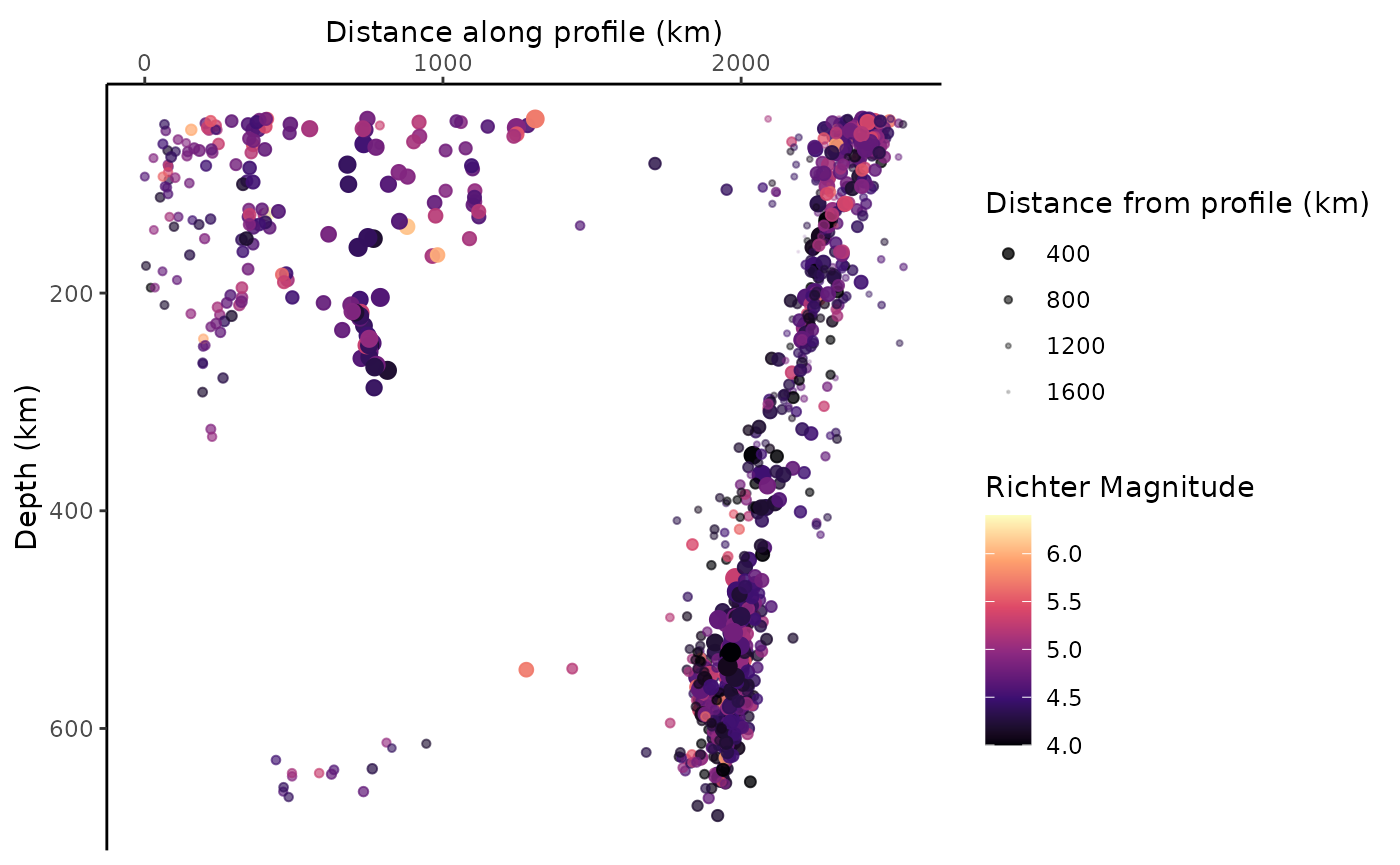
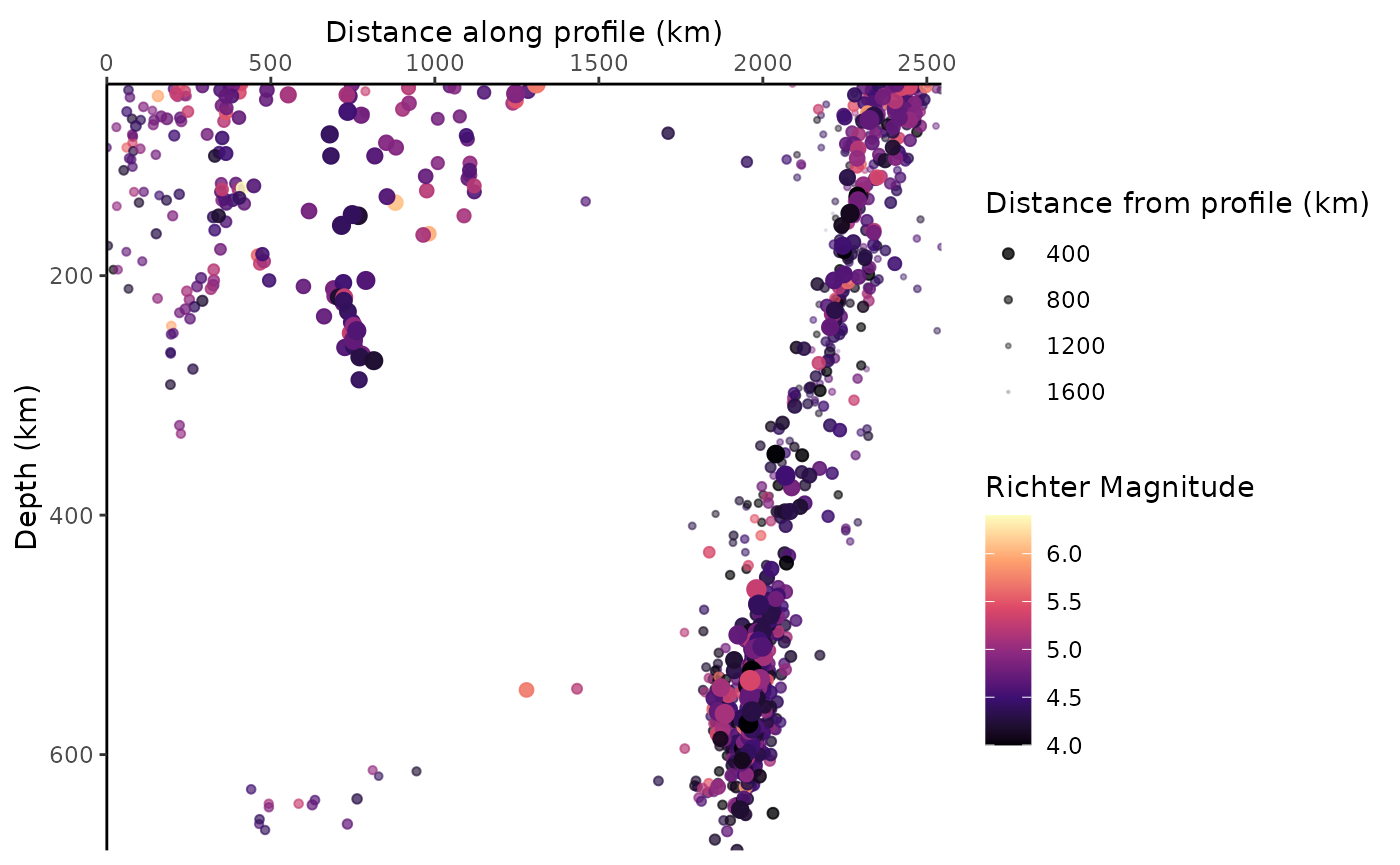
Deploying to gh-pages from @ tobiste/geoprofiler@4e86b4bd479b1341b2b4c8274972071e740ec782 🚀

diff --git a/articles/geoprofiler.html b/articles/geoprofiler.html
@@ -197,14 +197,17 @@ controlling the size (and/or the opacity) of the points. Here I am using
 the unfiltered data, and show the closest points much larger than the
 more distant points. This gives a somewhat 3-dimensional look to it:</p>
 <div class="sourceCode" id="cb11"><pre class="downlit sourceCode r">
-<code class="sourceCode R"><span><span class="fu"><a href="https://ggplot2.tidyverse.org/reference/ggplot.html" class="external-link">ggplot</a></span><span class="op">(</span><span class="va">quakes_profile</span>, <span class="fu"><a href="https://ggplot2.tidyverse.org/reference/aes.html" class="external-link">aes</a></span><span class="op">(</span><span class="va">X</span><span class="op">/</span><span class="fl">1000</span>, <span class="va">depth</span>, color <span class="op">=</span> <span class="va">mag</span>, size <span class="op">=</span> <span class="fu"><a href="https://rdrr.io/r/base/MathFun.html" class="external-link">abs</a></span><span class="op">(</span><span class="va">Y</span><span class="op">)</span><span class="op">/</span><span class="fl">1000</span>, alpha <span class="op">=</span> <span class="fu"><a href="https://rdrr.io/r/base/MathFun.html" class="external-link">abs</a></span><span class="op">(</span><span class="va">Y</span><span class="op">)</span><span class="op">/</span><span class="fl">1000</span><span class="op">)</span><span class="op">)</span> <span class="op">+</span></span>
-<span>  <span class="fu"><a href="https://ggplot2.tidyverse.org/reference/geom_point.html" class="external-link">geom_point</a></span><span class="op">(</span><span class="op">)</span> <span class="op">+</span></span>
-<span>  <span class="fu"><a href="https://ggplot2.tidyverse.org/reference/scale_viridis.html" class="external-link">scale_color_viridis_c</a></span><span class="op">(</span><span class="st">"Richter Magnitude"</span>, option <span class="op">=</span> <span class="st">"A"</span><span class="op">)</span> <span class="op">+</span></span>
-<span>  <span class="fu"><a href="https://ggplot2.tidyverse.org/reference/scale_size.html" class="external-link">scale_size_continuous</a></span><span class="op">(</span><span class="st">"Distance from profile (km)"</span>, range <span class="op">=</span> <span class="fu"><a href="https://rdrr.io/r/base/c.html" class="external-link">c</a></span><span class="op">(</span><span class="fl">3</span>, <span class="fl">.1</span><span class="op">)</span><span class="op">)</span> <span class="op">+</span></span>
-<span>  <span class="fu"><a href="https://ggplot2.tidyverse.org/reference/scale_alpha.html" class="external-link">scale_alpha_continuous</a></span><span class="op">(</span><span class="st">"Distance from profile (km)"</span>, range <span class="op">=</span> <span class="fu"><a href="https://rdrr.io/r/base/c.html" class="external-link">c</a></span><span class="op">(</span><span class="fl">1</span>, <span class="fl">.1</span><span class="op">)</span><span class="op">)</span> <span class="op">+</span></span>
-<span>  <span class="fu"><a href="https://ggplot2.tidyverse.org/reference/scale_continuous.html" class="external-link">scale_y_reverse</a></span><span class="op">(</span><span class="op">)</span> <span class="op">+</span></span>
-<span>  <span class="fu"><a href="https://ggplot2.tidyverse.org/reference/scale_continuous.html" class="external-link">scale_x_continuous</a></span><span class="op">(</span>guide <span class="op">=</span> <span class="fu"><a href="https://ggplot2.tidyverse.org/reference/guide_axis.html" class="external-link">guide_axis</a></span><span class="op">(</span>position <span class="op">=</span> <span class="st">"top"</span><span class="op">)</span><span class="op">)</span> <span class="op">+</span></span>
-<span>  <span class="fu"><a href="https://ggplot2.tidyverse.org/reference/labs.html" class="external-link">labs</a></span><span class="op">(</span>x <span class="op">=</span> <span class="st">"Distance along profile (km)"</span>, y <span class="op">=</span> <span class="st">"Depth (km)"</span><span class="op">)</span></span></code></pre></div>
+<code class="sourceCode R"><span> <span class="va">quakes_profile</span> <span class="op">|&gt;</span></span>
+<span>   <span class="fu"><a href="https://dplyr.tidyverse.org/reference/arrange.html" class="external-link">arrange</a></span><span class="op">(</span><span class="fu"><a href="https://dplyr.tidyverse.org/reference/desc.html" class="external-link">desc</a></span><span class="op">(</span><span class="fu"><a href="https://rdrr.io/r/base/MathFun.html" class="external-link">abs</a></span><span class="op">(</span><span class="va">Y</span><span class="op">)</span><span class="op">)</span><span class="op">)</span> <span class="op">|&gt;</span></span>
+<span>   <span class="fu"><a href="https://ggplot2.tidyverse.org/reference/ggplot.html" class="external-link">ggplot</a></span><span class="op">(</span><span class="fu"><a href="https://ggplot2.tidyverse.org/reference/aes.html" class="external-link">aes</a></span><span class="op">(</span><span class="va">X</span> <span class="op">/</span> <span class="fl">1000</span>, <span class="va">depth</span>, color <span class="op">=</span> <span class="va">mag</span>, size <span class="op">=</span> <span class="fu"><a href="https://rdrr.io/r/base/MathFun.html" class="external-link">abs</a></span><span class="op">(</span><span class="va">Y</span><span class="op">)</span> <span class="op">/</span> <span class="fl">1000</span>, alpha <span class="op">=</span> <span class="fu"><a href="https://rdrr.io/r/base/MathFun.html" class="external-link">abs</a></span><span class="op">(</span><span class="va">Y</span><span class="op">)</span> <span class="op">/</span> <span class="fl">1000</span><span class="op">)</span><span class="op">)</span> <span class="op">+</span></span>
+<span>   <span class="fu"><a href="https://ggplot2.tidyverse.org/reference/geom_point.html" class="external-link">geom_point</a></span><span class="op">(</span><span class="op">)</span> <span class="op">+</span></span>
+<span>   <span class="fu"><a href="https://ggplot2.tidyverse.org/reference/scale_viridis.html" class="external-link">scale_color_viridis_c</a></span><span class="op">(</span><span class="st">"Richter Magnitude"</span>, option <span class="op">=</span> <span class="st">"A"</span><span class="op">)</span> <span class="op">+</span></span>
+<span>   <span class="fu"><a href="https://ggplot2.tidyverse.org/reference/scale_size.html" class="external-link">scale_size_continuous</a></span><span class="op">(</span><span class="st">"Distance from profile (km)"</span>, range <span class="op">=</span> <span class="fu"><a href="https://rdrr.io/r/base/c.html" class="external-link">c</a></span><span class="op">(</span><span class="fl">3</span>, <span class="fl">.1</span><span class="op">)</span><span class="op">)</span> <span class="op">+</span></span>
+<span>   <span class="fu"><a href="https://ggplot2.tidyverse.org/reference/scale_alpha.html" class="external-link">scale_alpha_continuous</a></span><span class="op">(</span><span class="st">"Distance from profile (km)"</span>, range <span class="op">=</span> <span class="fu"><a href="https://rdrr.io/r/base/c.html" class="external-link">c</a></span><span class="op">(</span><span class="fl">1</span>, <span class="fl">.1</span><span class="op">)</span><span class="op">)</span> <span class="op">+</span></span>
+<span>   <span class="fu"><a href="https://ggplot2.tidyverse.org/reference/scale_continuous.html" class="external-link">scale_y_reverse</a></span><span class="op">(</span><span class="op">)</span> <span class="op">+</span></span>
+<span>   <span class="fu"><a href="https://ggplot2.tidyverse.org/reference/scale_continuous.html" class="external-link">scale_x_continuous</a></span><span class="op">(</span>guide <span class="op">=</span> <span class="fu"><a href="https://ggplot2.tidyverse.org/reference/guide_axis.html" class="external-link">guide_axis</a></span><span class="op">(</span>position <span class="op">=</span> <span class="st">"top"</span><span class="op">)</span><span class="op">)</span> <span class="op">+</span></span>
+<span>   <span class="fu"><a href="https://ggplot2.tidyverse.org/reference/labs.html" class="external-link">labs</a></span><span class="op">(</span>x <span class="op">=</span> <span class="st">"Distance along profile (km)"</span>, y <span class="op">=</span> <span class="st">"Depth (km)"</span><span class="op">)</span> <span class="op">+</span></span>
+<span>   <span class="fu"><a href="https://ggplot2.tidyverse.org/reference/coord_cartesian.html" class="external-link">coord_cartesian</a></span><span class="op">(</span>expand <span class="op">=</span> <span class="cn">FALSE</span><span class="op">)</span></span></code></pre></div>
 <p><img src="geoprofiler_files/figure-html/profile_plot2-1.png" width="700"></p>
 </div>
   </main><aside class="col-md-3"><nav id="toc" aria-label="Table of contents"><h2>On this page</h2>

diff --git a/index.html b/index.html
@@ -62,7 +62,7 @@
 <div class="section level2">
 <h2 id="example">Example<a class="anchor" aria-label="anchor" href="#example"></a>
 </h2>
-<p>This is a basic example which shows you how to create a profile</p>
+<p>This is a basic example which shows you how to create a profile.</p>
 <div class="sourceCode" id="cb2"><pre class="downlit sourceCode r">
 <code class="sourceCode R"><span><span class="kw"><a href="https://rdrr.io/r/base/library.html" class="external-link">library</a></span><span class="op">(</span><span class="va"><a href="https://tobiste.github.io/geoprofiler/">geoprofiler</a></span><span class="op">)</span></span>
 <span><span class="kw"><a href="https://rdrr.io/r/base/library.html" class="external-link">library</a></span><span class="op">(</span><span class="va"><a href="https://ggplot2.tidyverse.org" class="external-link">ggplot2</a></span><span class="op">)</span></span>
@@ -95,7 +95,22 @@
 <span>  <span class="fu"><a href="https://ggplot2.tidyverse.org/reference/scale_continuous.html" class="external-link">scale_x_continuous</a></span><span class="op">(</span>guide <span class="op">=</span> <span class="fu"><a href="https://ggplot2.tidyverse.org/reference/guide_axis.html" class="external-link">guide_axis</a></span><span class="op">(</span>position <span class="op">=</span> <span class="st">"top"</span><span class="op">)</span><span class="op">)</span> <span class="op">+</span></span>
 <span>  <span class="fu"><a href="https://ggplot2.tidyverse.org/reference/labs.html" class="external-link">labs</a></span><span class="op">(</span>x <span class="op">=</span> <span class="fu"><a href="https://rdrr.io/r/base/bquote.html" class="external-link">bquote</a></span><span class="op">(</span><span class="st">"Distance along profile ("</span> <span class="op">*</span> <span class="va">degree</span> <span class="op">*</span> <span class="st">")"</span><span class="op">)</span>, y <span class="op">=</span> <span class="st">"Depth (km)"</span><span class="op">)</span> <span class="op">+</span></span>
 <span>  <span class="fu"><a href="https://ggplot2.tidyverse.org/reference/ggtheme.html" class="external-link">theme_classic</a></span><span class="op">(</span><span class="op">)</span></span></code></pre></div>
-<p><img src="reference/figures/README-plot-1.png" width="100%"></p>
+<p><img src="reference/figures/README-plot-1.png" width="100%"> ## Documentation The detailed documentation can be found at <a href="https://tobiste.github.io/geoprofiler/articles/geoprofiler.html" class="uri">https://tobiste.github.io/geoprofiler/articles/geoprofiler.html</a></p>
+</div>
+<div class="section level2">
+<h2 id="author">Author<a class="anchor" aria-label="anchor" href="#author"></a>
+</h2>
+<p>Tobias Stephan (<a href="mailto:tstephan@lakeheadu.ca" class="email">tstephan@lakeheadu.ca</a>)</p>
+</div>
+<div class="section level2">
+<h2 id="feedback-issues-and-contributions">Feedback, issues, and contributions<a class="anchor" aria-label="anchor" href="#feedback-issues-and-contributions"></a>
+</h2>
+<p>I welcome feedback, suggestions, issues, and contributions! If you have found a bug, please file it <a href="https://github.com/tobiste/geoprofiler/issues" class="external-link">here</a> with minimal code to reproduce the issue.</p>
+</div>
+<div class="section level2">
+<h2 id="license">License<a class="anchor" aria-label="anchor" href="#license"></a>
+</h2>
+<p>MIT License</p>
 </div>
 </div>
   </main><aside class="col-md-3"><div class="license">
